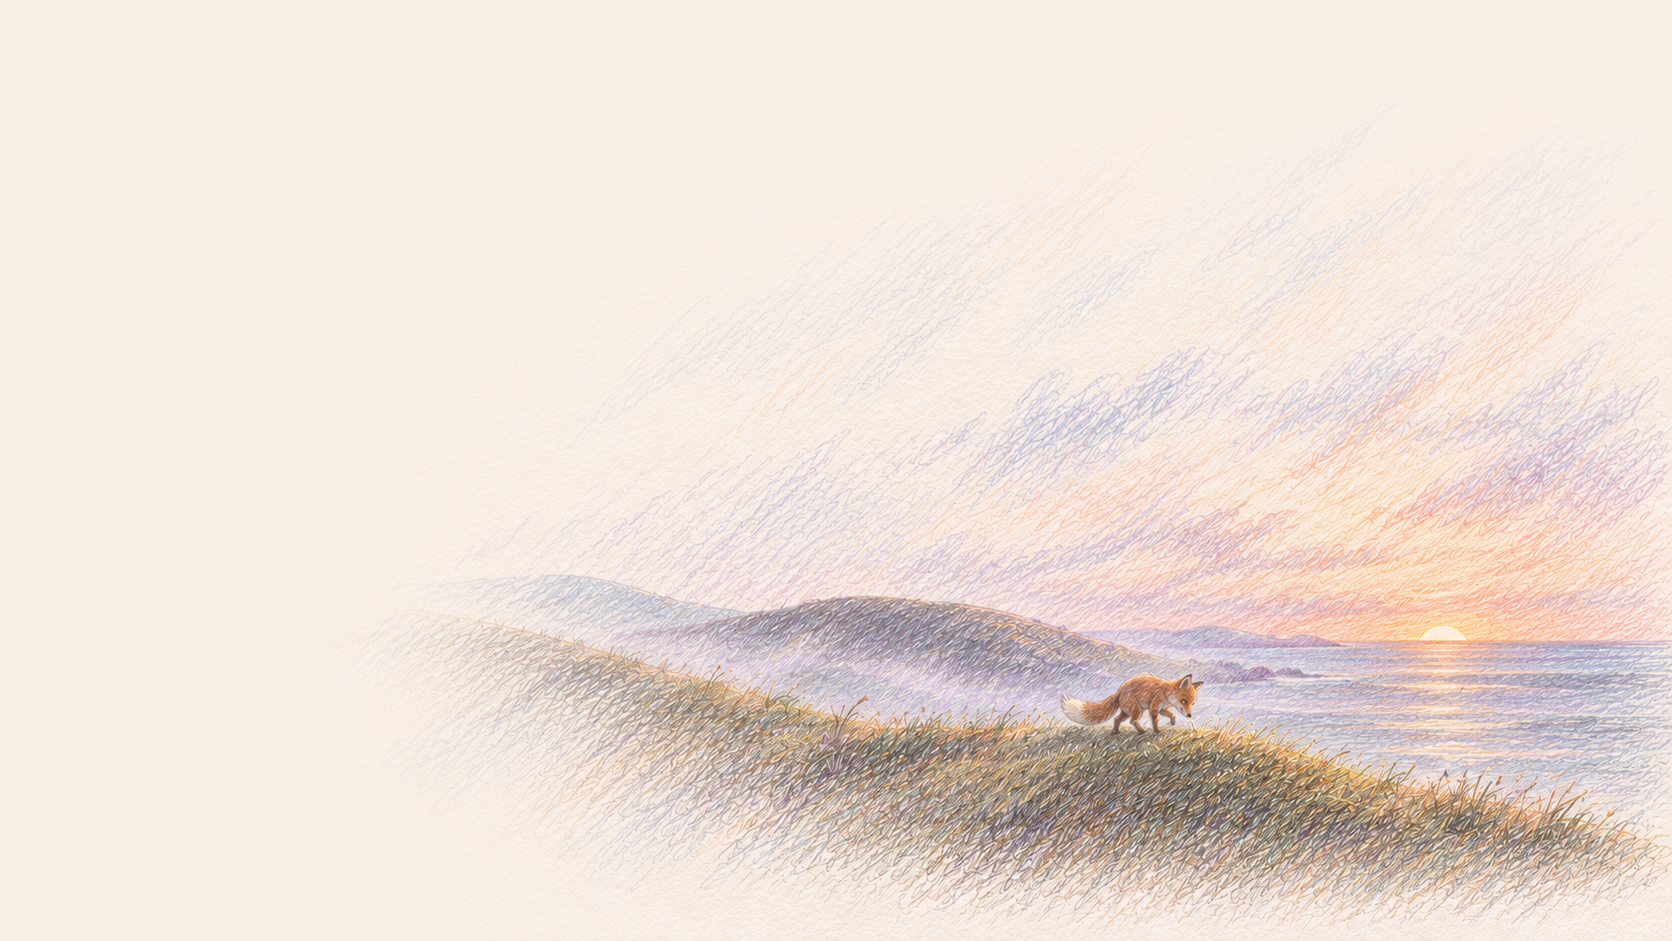
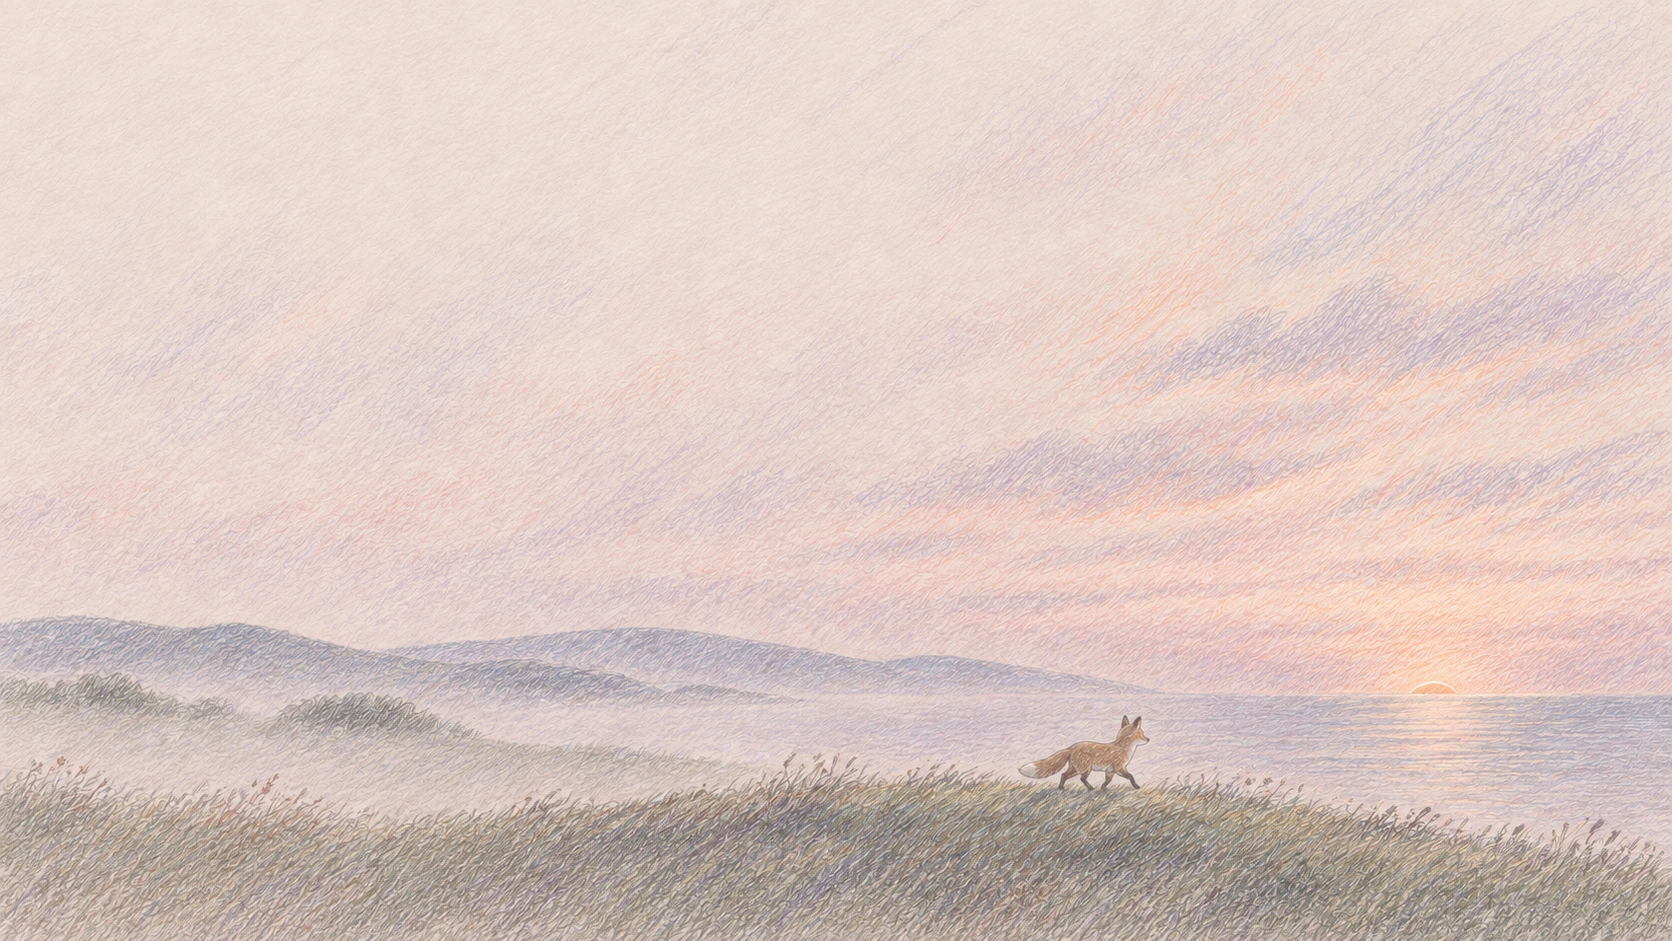
✨ feat(backgrounds): redraw dawn in soft rose mist
- :sparkles: the pastel morning was too bright, and a dark scene on cream too harsh
- :art: one low-contrast picture, toned so its sky sits on `#ead9d2`
- :memo: describe how the new wallpaper was made

Claude-Session: https://claude.ai/code/session_01KcMBmdTUYPsxUBktRW77dF

diff --git a/README.md b/README.md
@@ -72,6 +72,7 @@ theme would drop. When Omarchy is installed, they also resolve the palette with
 run the tests.
 
 The wallpaper in `backgrounds/` was generated with Codex image generation from
-the palette above, then blended into a flat `#f8efe7` outside the scene with
-ImageMagick, so it runs seamlessly behind windows. Monokai Daybreak is not
-affiliated with or endorsed by Monokai, the maker of Monokai Pro.
+the palette above, as one low-contrast picture around a rose-mist `#ead9d2`.
+Its colours were then adjusted with ImageMagick so the sky sits exactly on that
+tone, gently behind the cream windows. Monokai Daybreak is not affiliated with
+or endorsed by Monokai, the maker of Monokai Pro.
